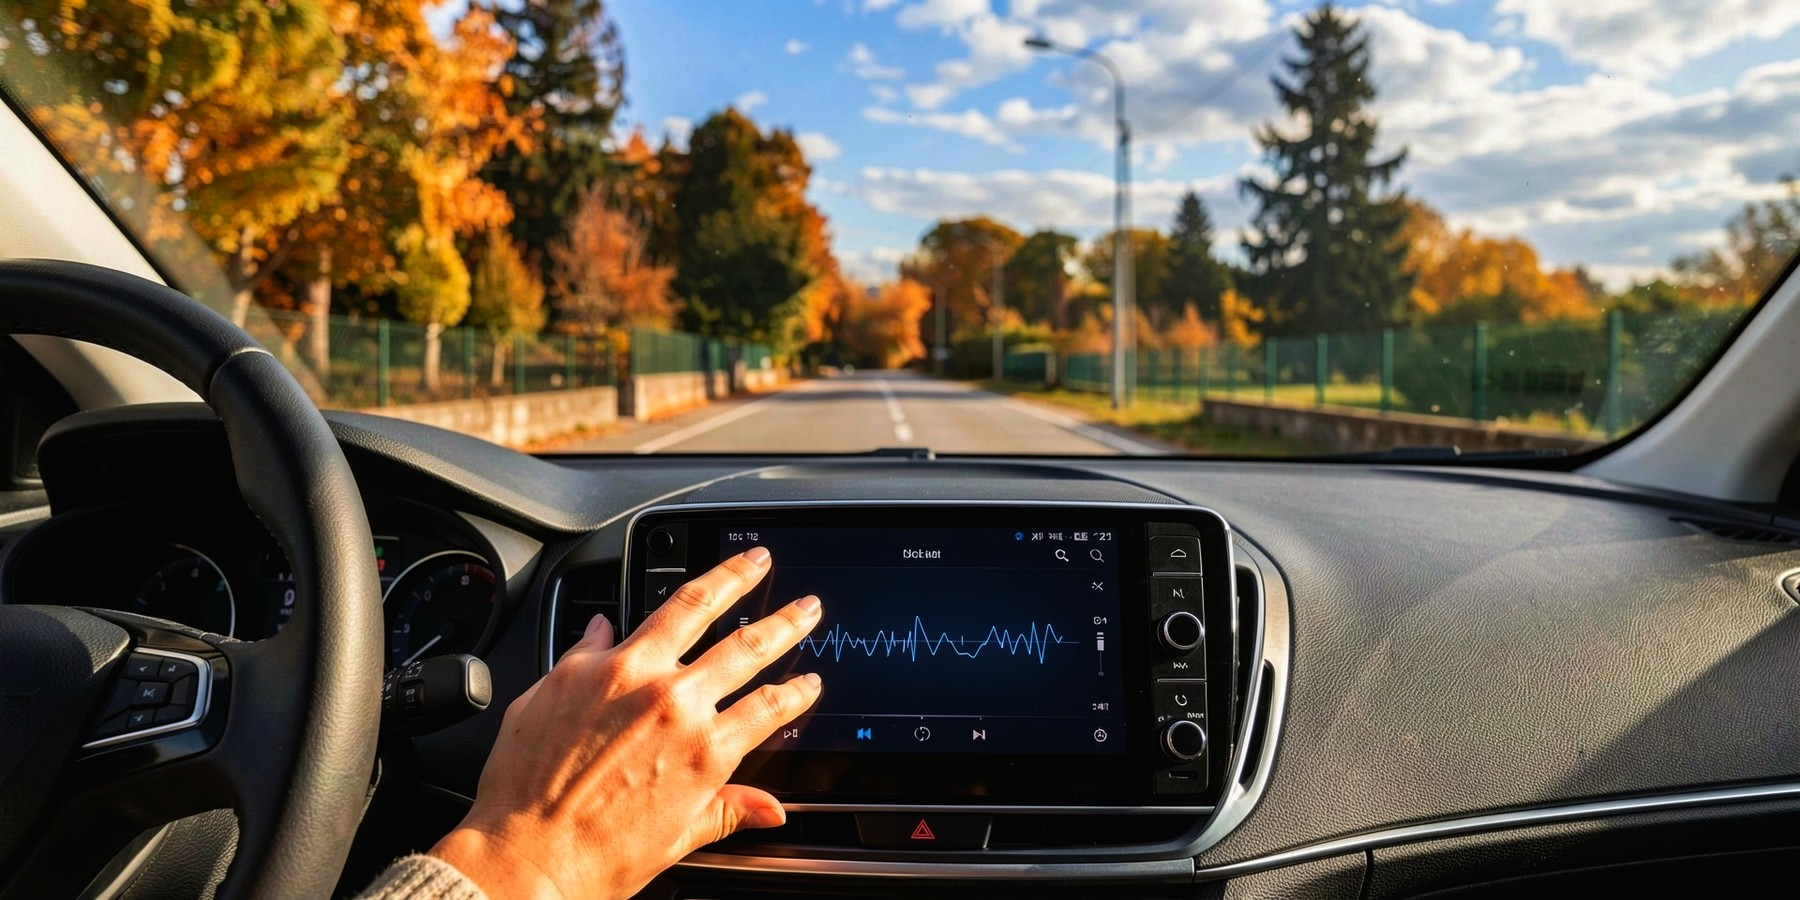
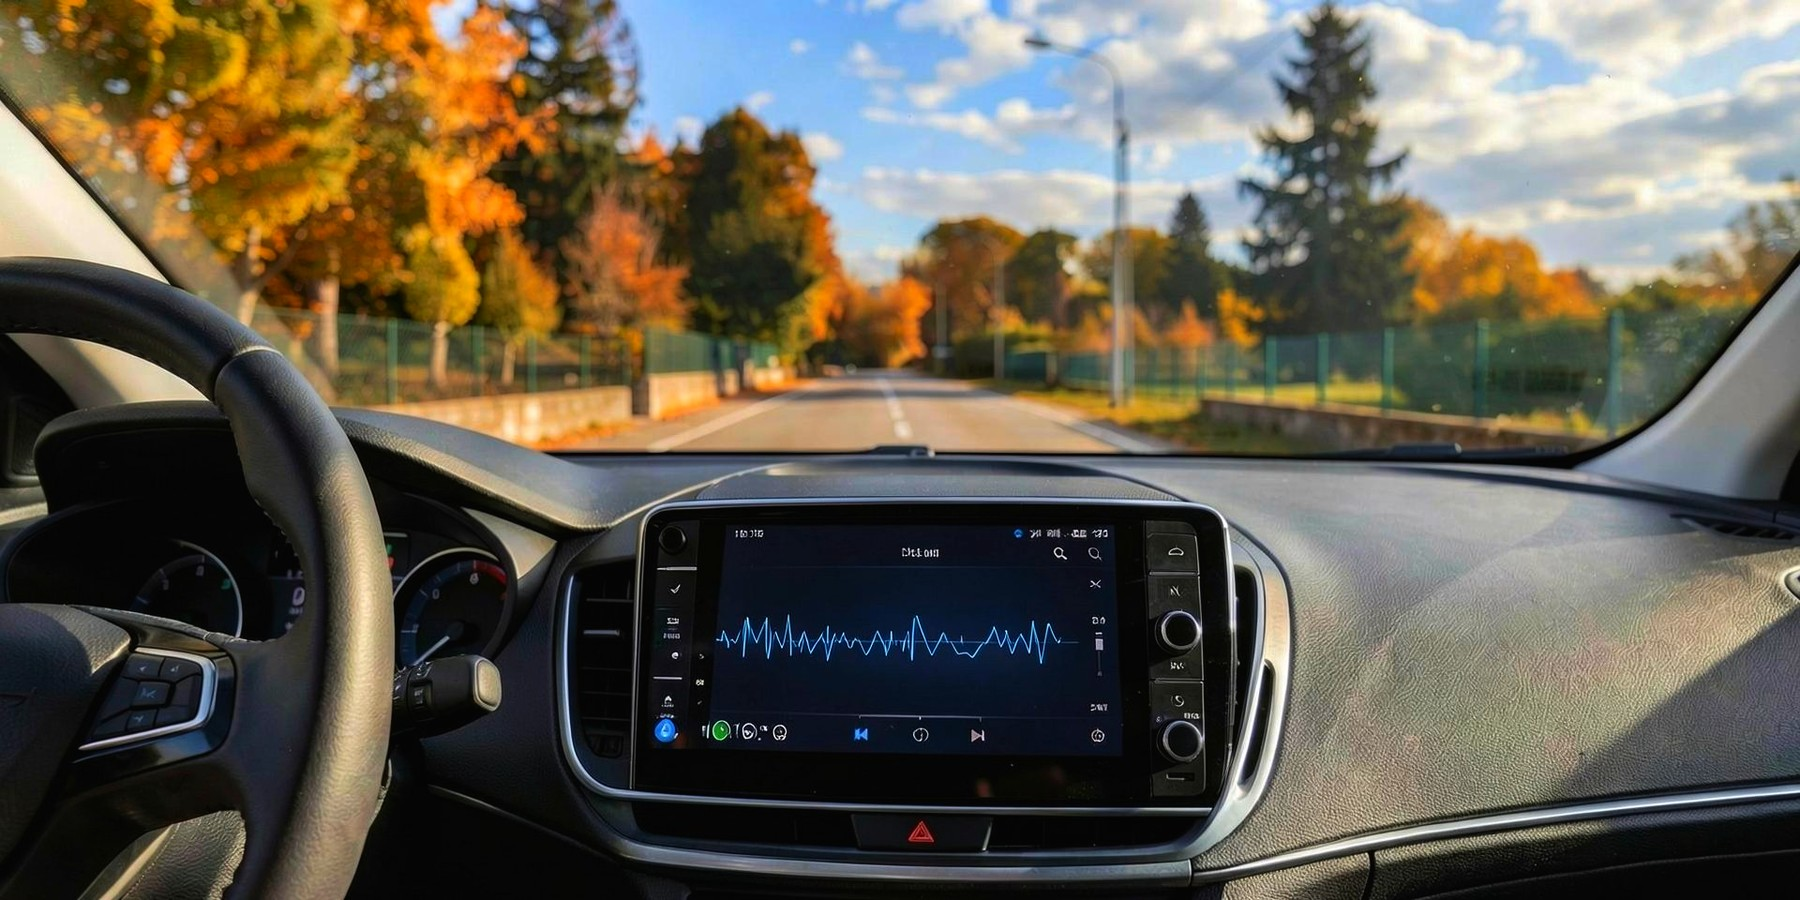
S42: opzione A senza mano (la mano generata aveva le dita sbagliate)
Claude-Session: https://claude.ai/code/session_01W4NDZXtgUVYPLRtTfiVWZe

diff --git a/src/guide/musica-spot-radio-licenza-artlist-epidemic-sound.md b/src/guide/musica-spot-radio-licenza-artlist-epidemic-sound.md
@@ -5,7 +5,7 @@ descrizione_seo: "Molti abbonamenti di musica royalty free non coprono la radio.
 date: 2026-10-27
 bozza: true
 copertina: musica-spot-radio-autoradio.jpg
-copertinaAlt: "Una mano tocca lo schermo dell'autoradio, fuori dal parabrezza una strada di campagna in una giornata di sole d'autunno"
+copertinaAlt: "Il cruscotto di un'auto con il touchscreen dell'autoradio acceso, fuori dal parabrezza una strada di campagna in una giornata di sole d'autunno"
 copertinaCredito: "Immagine generata con l'AI"
 chiave: articolo-s42
 categoria: Musica e diritti
